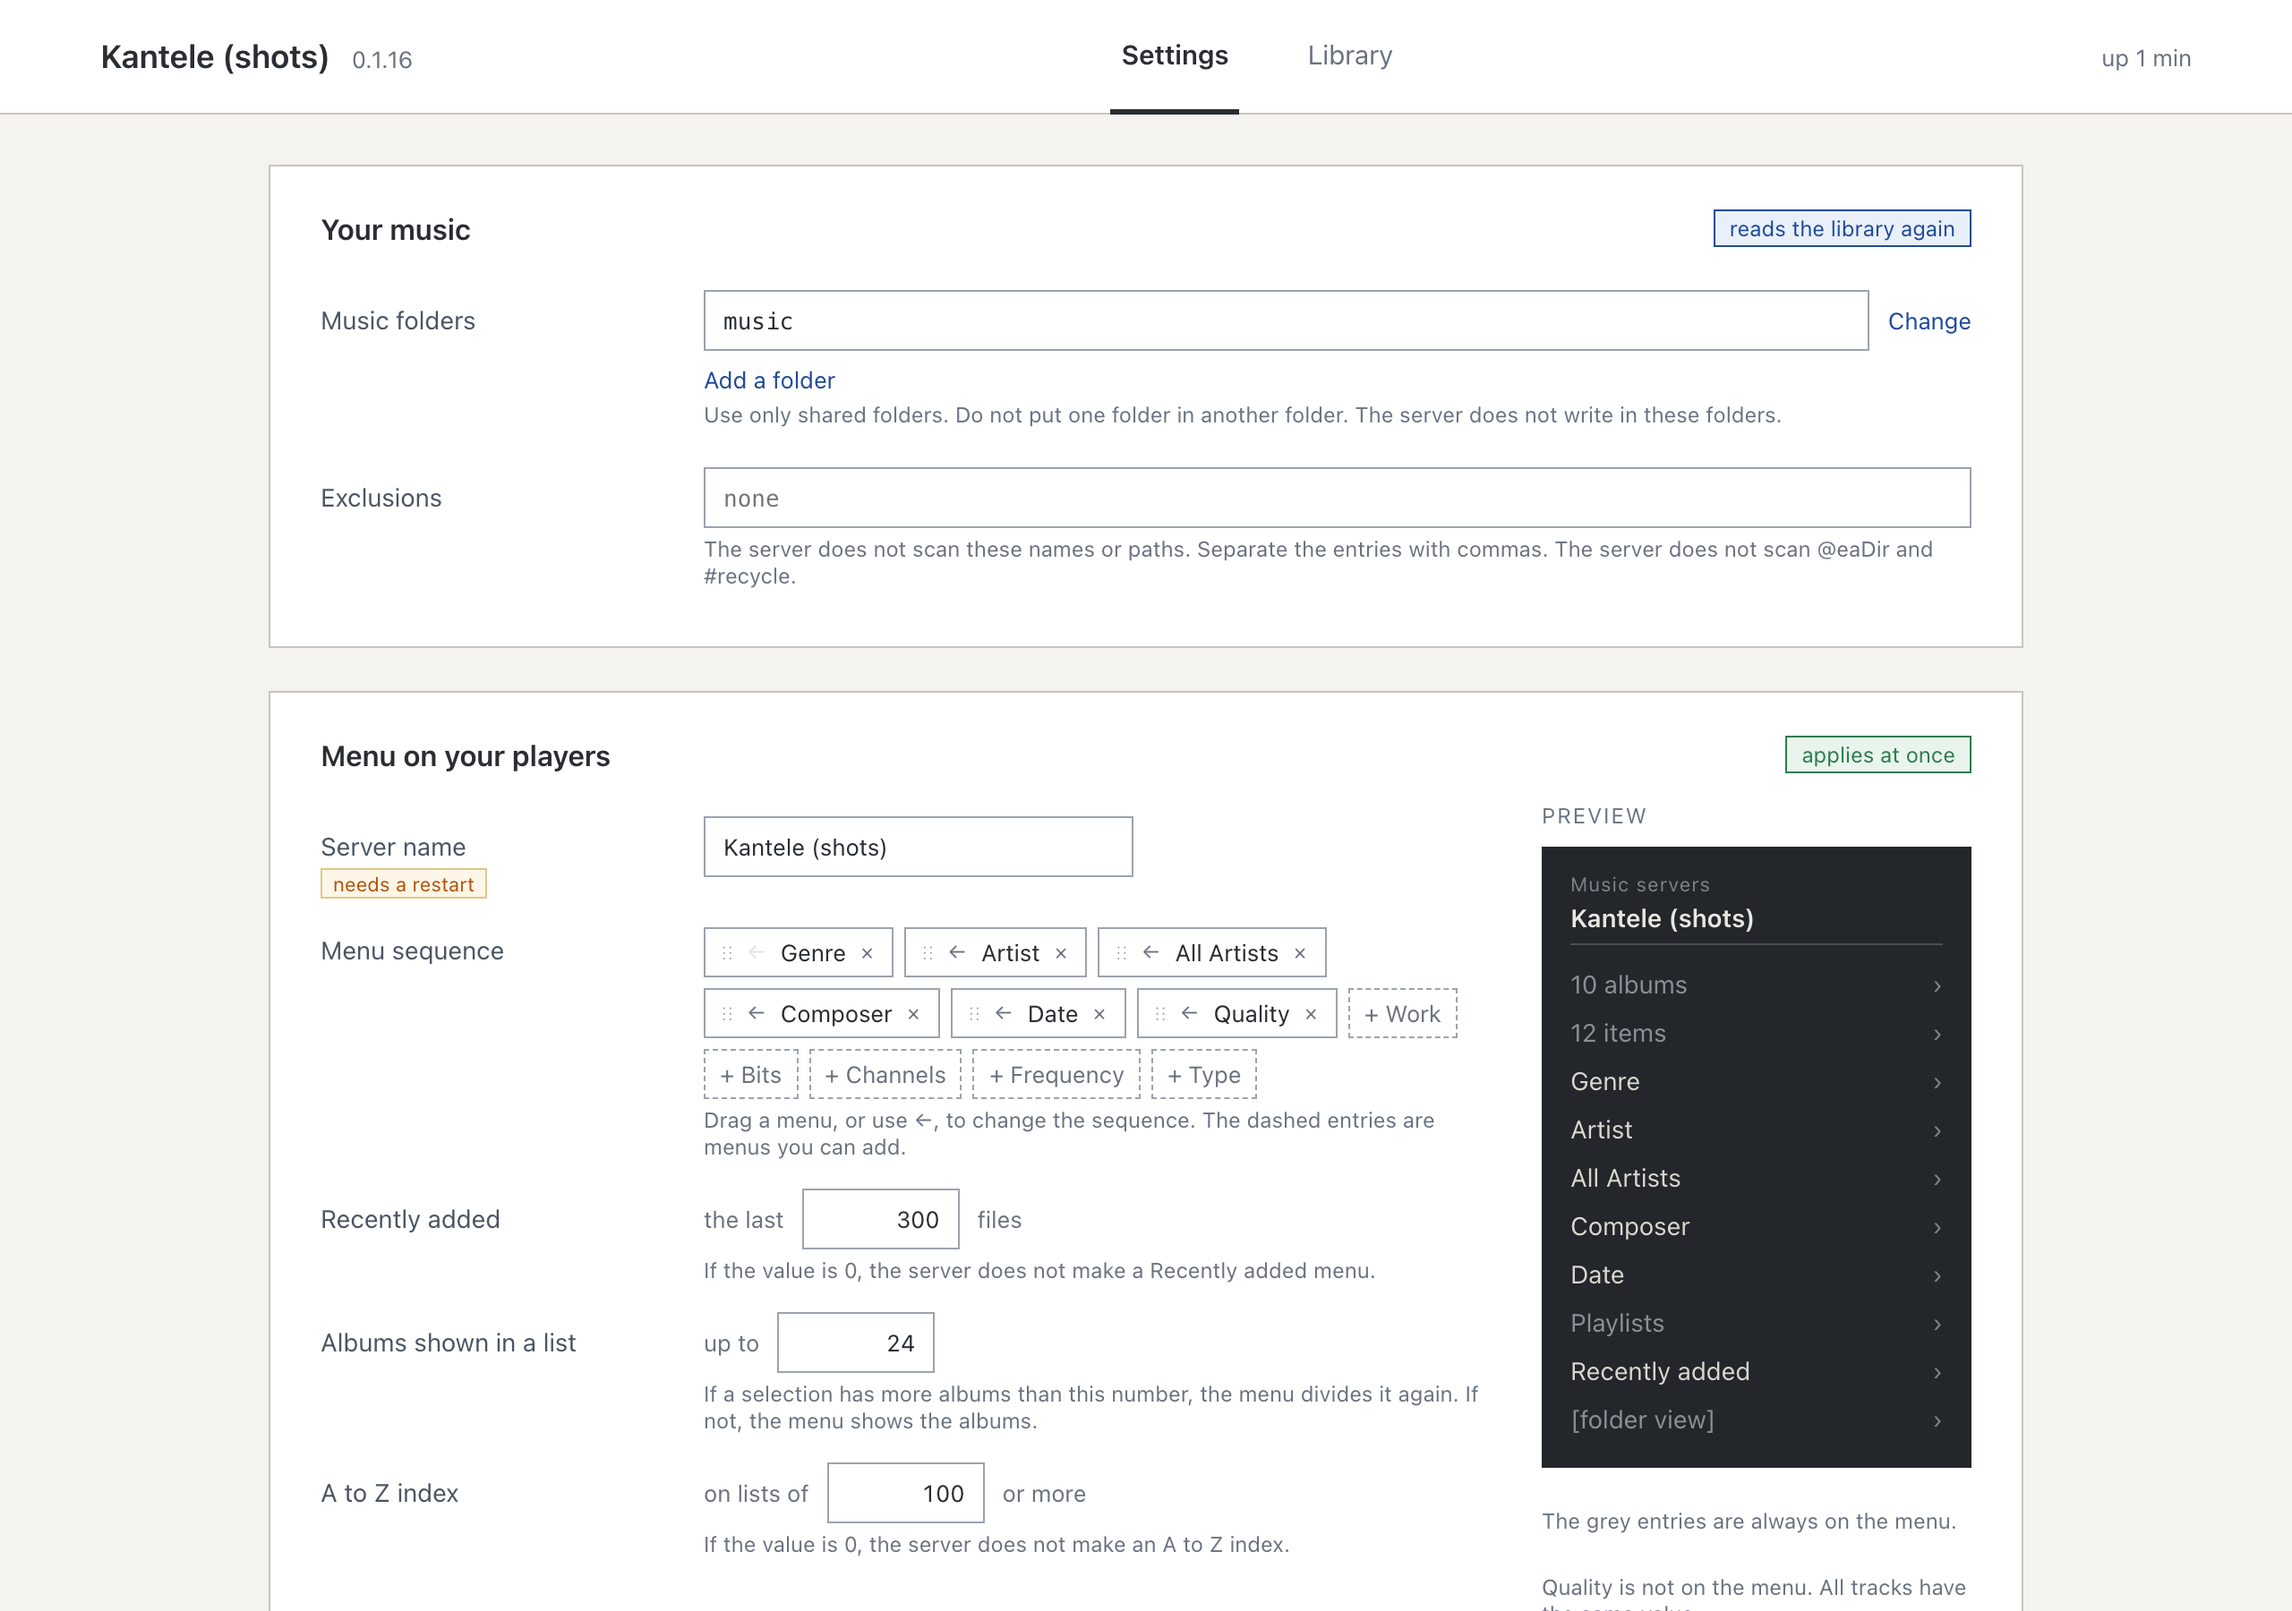
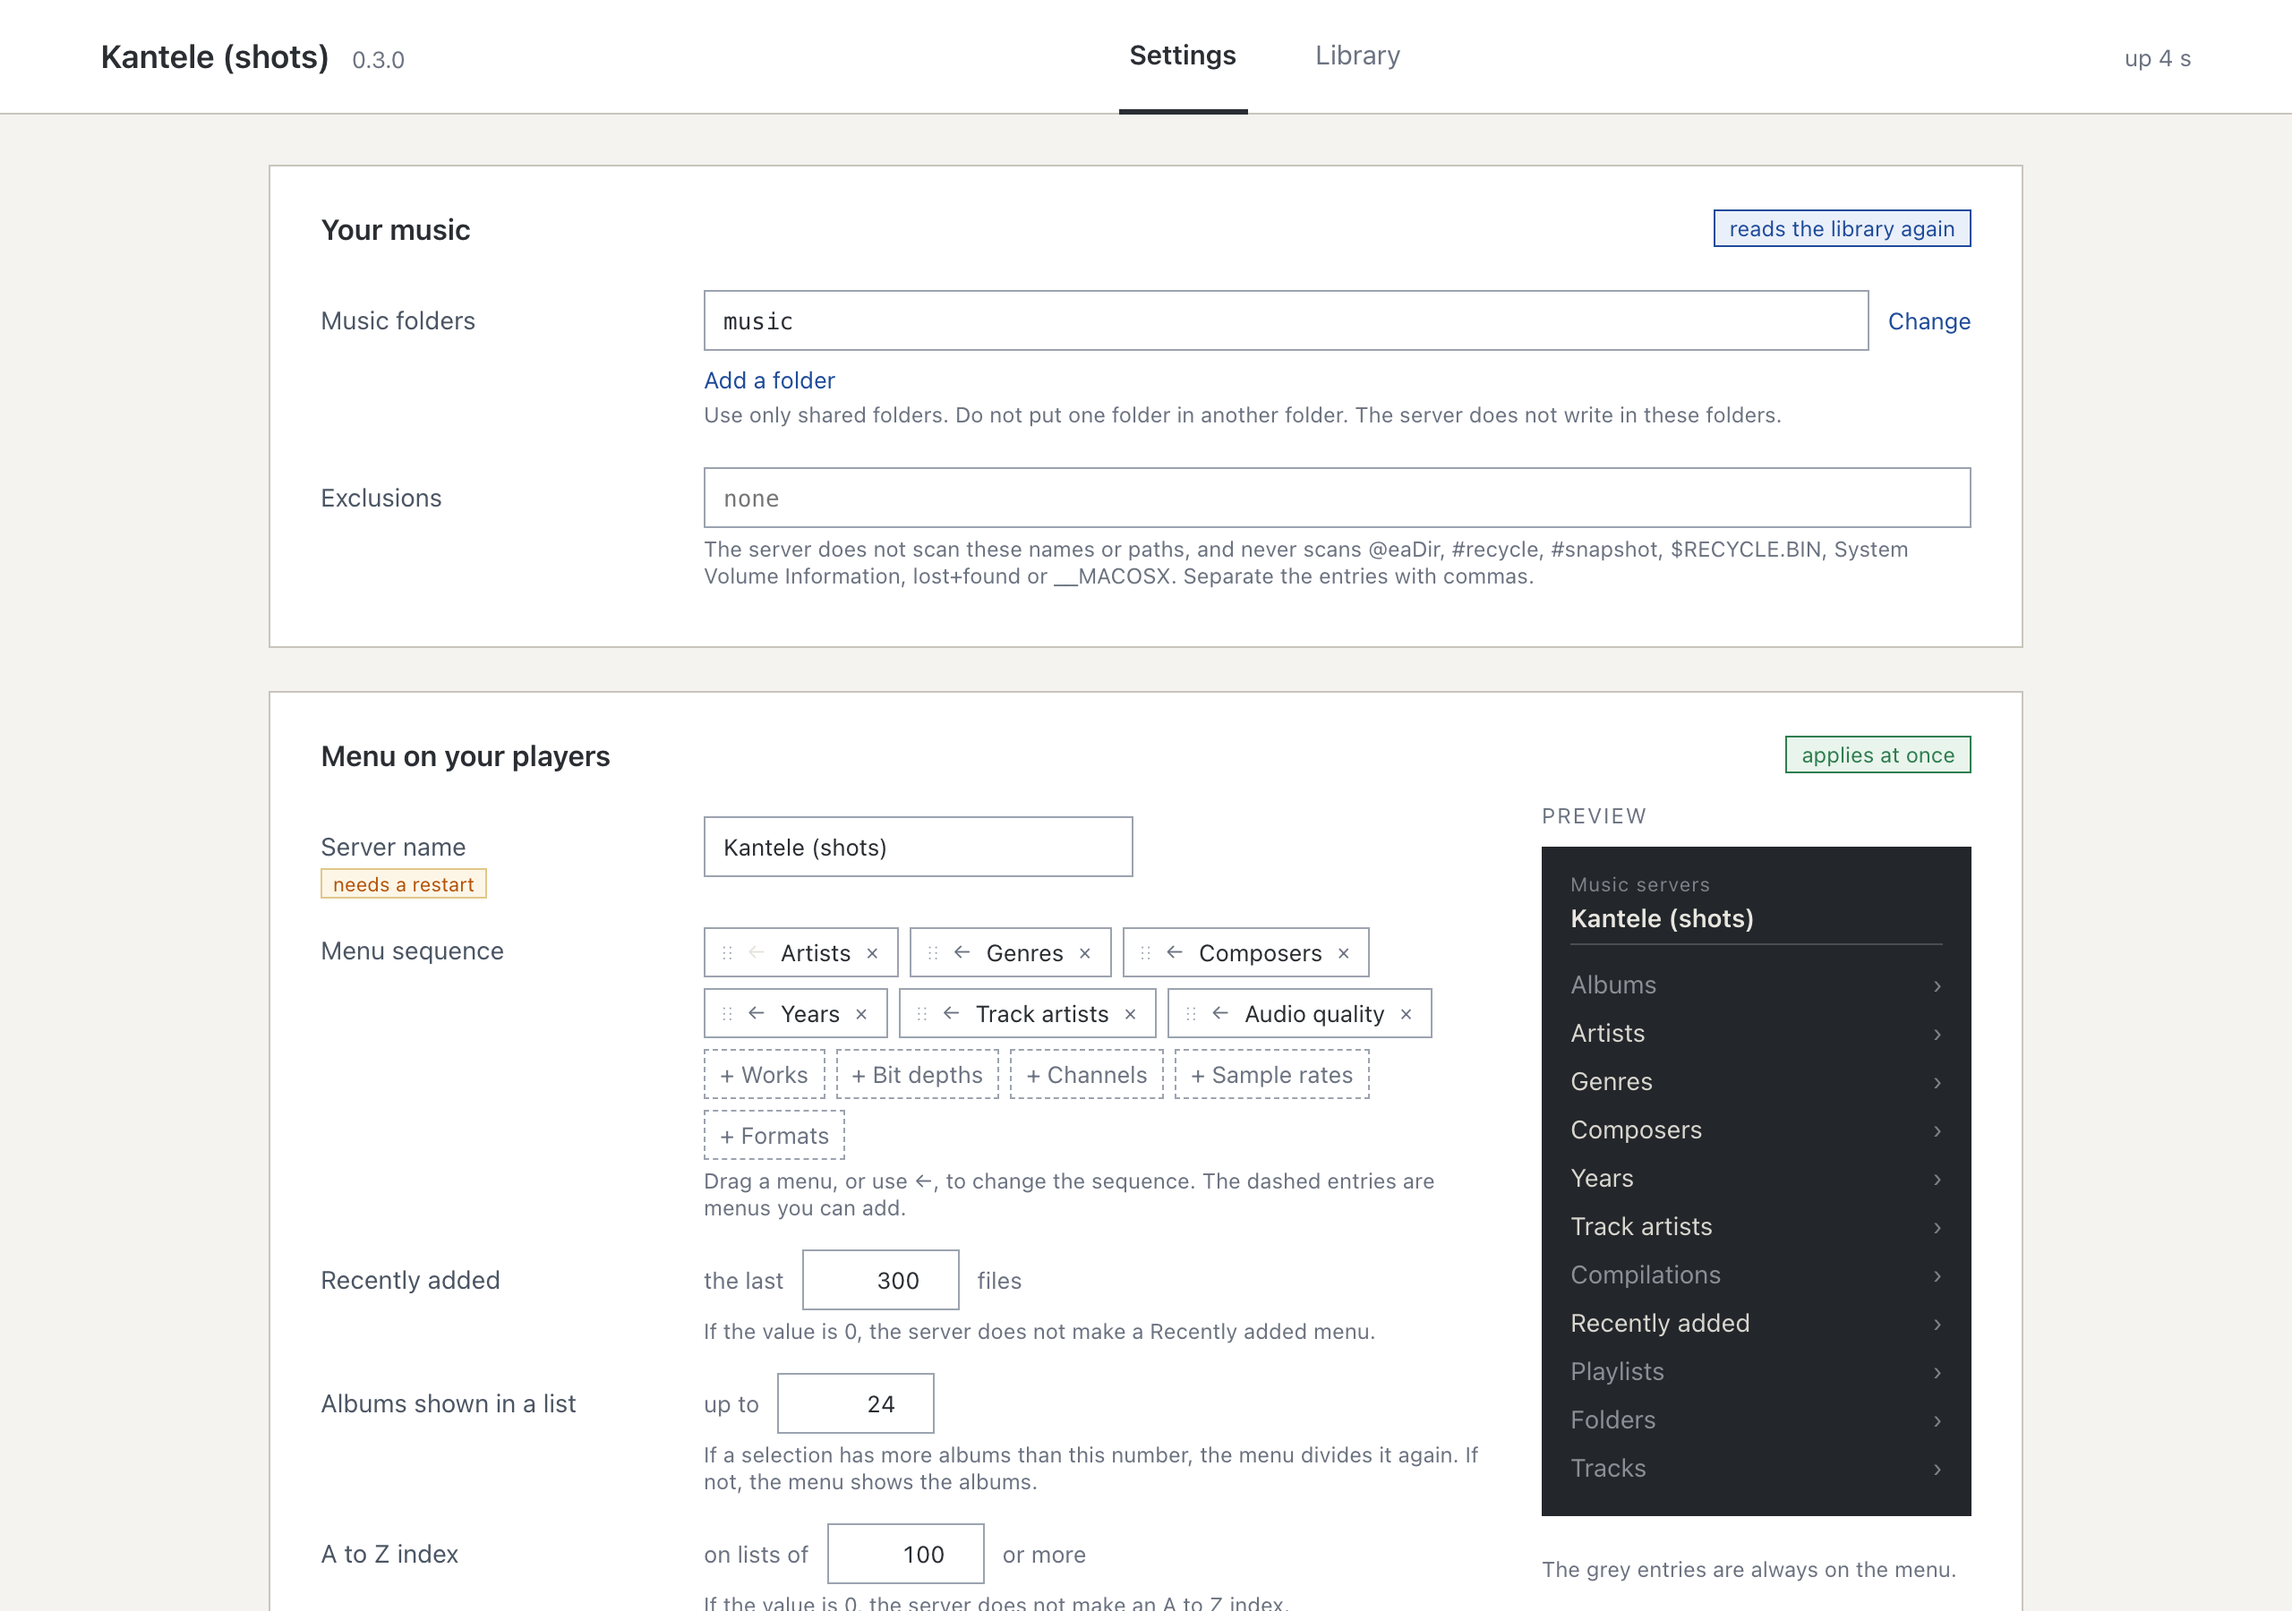
The MinimServer page says where each first-screen entry went and how years, capitals and unknown values differ, and the screenshots show the page as it is

diff --git a/docs/coming-from-minimserver.md b/docs/coming-from-minimserver.md
@@ -8,6 +8,25 @@ retagging. This page says what carries over, what differs, and what Kantele does
 Both can run on the same NAS, on the same music folder. Kantele never writes inside the music
 folder. Give it a different **Server name** so your player lists both, and compare menu by menu.
 
+## Where things are on the first screen
+
+| In MinimServer | In Kantele |
+|---|---|
+| `N albums` | **Albums** |
+| `N items` | **Tracks** |
+| `N playlists` | **Playlists** |
+| `Artist` | **Artists** |
+| `All Artists` | **Track artists** |
+| `Genre` | **Genres** |
+| `Composer` | **Composers** |
+| `Date` | **Years** |
+| `Artist` → `Various Artists` | **Compilations** |
+| `[untagged]` | **Untagged tracks** |
+| `[folder view]` | **Folders**, or **📁 Directories** on HEOS |
+
+Kantele also lists **Audio quality**, and **Recently added** unless you turn it off. The first
+screen shows names without counts, most used first.
+
 ## What is the same
 
 - **Menus that narrow.** Choosing a genre offers the other menus that split it, until few enough
@@ -17,6 +36,8 @@ folder. Give it a different **Server name** so your player lists both, and compa
   disc marker in the album title, opens the album disc by disc. An album that showed one way in
   MinimServer shows the same way here.
 - **`GROUPING`** joins consecutive tracks into one entry inside the album.
+- **Composers written with a slash**, `Lennon/McCartney`, are listed one by one under
+  **Composers**. An artist written that way stays one name, so `AC/DC` is not split.
 - **Playlists**: `.m3u`, `.m3u8` and `.pls`, one entry per file, in the file's order.
 - **Covers**: the picture in the file wins, and the folder's image fills in where a file has none.
 - **Audio quality**: the same words, from Lossy through CD and HD to DSD.
@@ -46,6 +67,12 @@ All of them are on the Settings page, and none of them needs a restart.
   **A-Z** entry at its top.
 - **Accented names sort with their letter.** `Šerkšnytė` is under S, where MinimServer puts names
   with letters beyond Latin-1 after Z.
+- **Years, not dates.** MinimServer's `Date` lists each date as written, so `2018` and
+  `2018-06-29` are two entries. **Years** lists the year.
+- **Spellings that differ only in capitals are one entry.** MinimServer lists `ABBA` and `Abba`
+  apart.
+- **No unknown entry in each menu.** A track with no genre is not under an unknown genre. It is
+  reached through its other tags, and under **Untagged tracks** when no menu reaches it.
 - **Recently added** uses the date Kantele first saw a file, so retagging an album does not bring
   it back to the top.
 - **`Various Artists`** and its variants are not listed as an artist. Their albums are under
